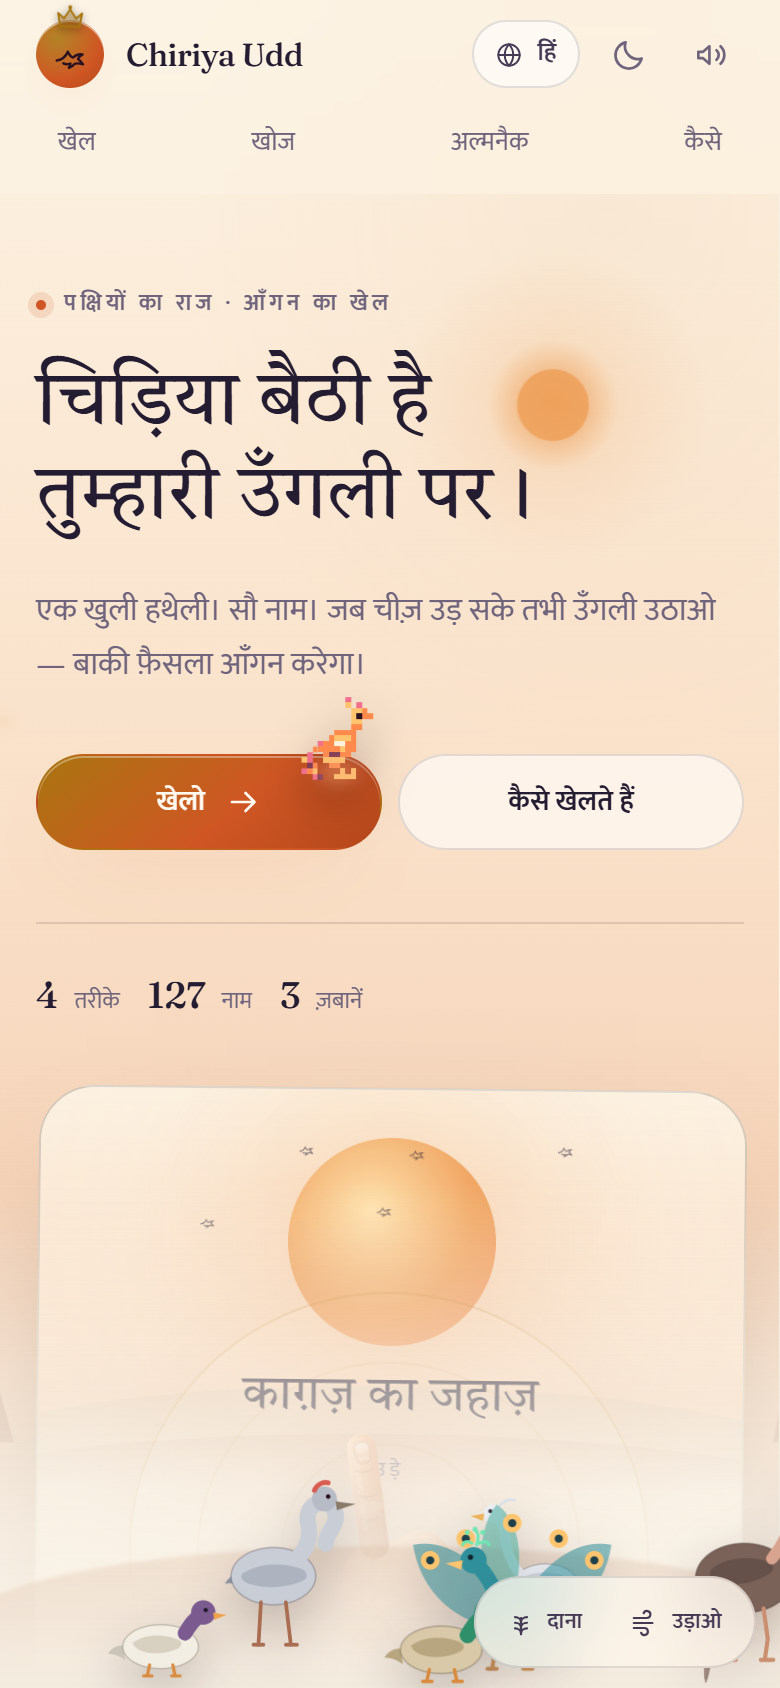
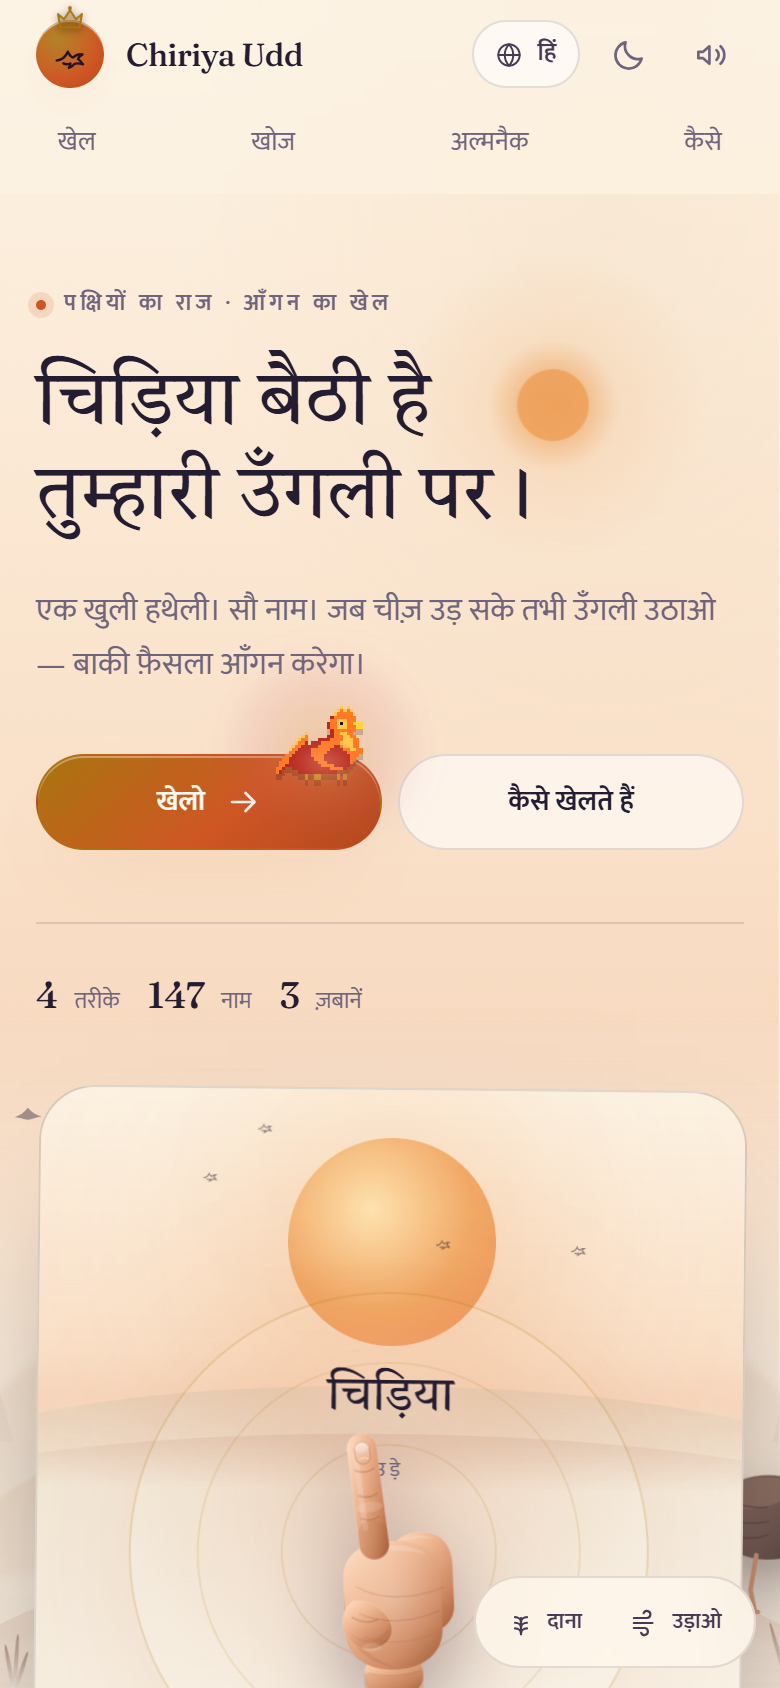
Bring the meadow forward and let the phoenix burn and rise

diff --git a/css/style.css b/css/style.css
@@ -1420,13 +1420,13 @@ body.is-playing .meadow-dock{opacity:0;pointer-events:none;transform:translate(-
 /* ---------- the phoenix above the Play button ---------- */
 .btn-primary.has-phoenix{position:relative;overflow:visible}
 .phoenix{
-  position:absolute;right:14px;top:-66px;width:96px;height:69px;image-rendering:pixelated;
+  position:absolute;right:0;top:-40px;width:68px;height:49px;image-rendering:pixelated;
   z-index:3;pointer-events:none;transform-origin:50% 100%;
   filter:drop-shadow(0 3px 0 rgba(0,0,0,.25));
   animation:phoenixBob 1.6s steps(1,end) infinite;
 }
-@media (max-width:480px){.phoenix{width:80px;height:58px;right:8px;top:-55px}}
-.phoenix svg{position:relative;z-index:2;display:block;width:100%;height:100%;overflow:visible}
+.phoenix svg{position:relative;z-index:2;display:block;width:100%;height:100%;overflow:visible;shape-rendering:crispEdges}
+.phoenix svg *{stroke:none;stroke-width:0}
 .phoenix-art{transform-box:fill-box;transform-origin:50% 92%}
 .phoenix-tail{transform-box:fill-box;transform-origin:74% 10%;animation:phoenixTail 3.6s ease-in-out infinite}
 .phoenix-head{transform-box:fill-box;transform-origin:44% 88%;transform:rotate(var(--phx-tilt,0deg));transition:transform .3s var(--ease)}
@@ -1665,9 +1665,13 @@ html[data-theme="light"] #view-play[data-mode="maya"]{--court-ink:#6a35b0}
 .cursor-birds{position:fixed;inset:0;z-index:400;pointer-events:none;overflow:hidden}
 .hum{
   position:fixed;left:0;top:0;width:26px;height:26px;
-  color:#0b0a12;pointer-events:none;
-  filter:drop-shadow(0 0 1.4px rgba(255,245,230,.55)) drop-shadow(0 3px 5px rgba(0,0,0,.35));
+  color:#f6f1e8;pointer-events:none;
+  filter:drop-shadow(0 0 1.4px rgba(10,8,16,.85)) drop-shadow(0 3px 5px rgba(0,0,0,.35));
   will-change:transform,opacity;
+}
+html[data-theme="light"] .hum{
+  color:#141018;
+  filter:drop-shadow(0 0 1.4px rgba(255,250,240,.85)) drop-shadow(0 3px 5px rgba(0,0,0,.22));
 }
 .hum svg{display:block;width:100%;height:100%;overflow:visible}
 .hum .hum-wing{transform-box:fill-box;transform-origin:72% 70%;animation:humWing .11s linear infinite alternate}
@@ -1686,11 +1690,14 @@ html[data-theme="light"] #view-play[data-mode="maya"]{--court-ink:#6a35b0}
 
 /* ---------- responsive / stillness ---------- */
 @media (max-width:780px){
-  .phoenix{width:72px;height:52px;top:-49px;right:6px}
+  .phoenix{width:56px;height:40px;top:-26px;right:3px}
   .mode-bird{width:108px;height:108px;right:-18px;bottom:-18px;opacity:.11}
   .play-bird{width:92px;opacity:.09}
   .pace-row{flex-direction:column;align-items:flex-start;gap:7px}
   .nav-bird{display:none}
+}
+@media (max-width:480px){
+  .phoenix{width:52px;height:37px;top:-22px;right:2px}
 }
 @media (prefers-reduced-motion:reduce){
   .phoenix,.phoenix-tail,.phoenix-wing,.phoenix-art,.phoenix-flame,.phoenix-aura,.phx-spark,.brand-crown,.mode-bird,.play-bird,.play-weather,.nav-bird,.hum,.hum .hum-wing{animation:none !important}

diff --git a/js/meadow.js b/js/meadow.js
@@ -247,13 +247,13 @@ const FAR_BIRD = `
 </svg>`;
 
 const TYPES = {
-  crane:     { nameKey: "birdCrane",   svg: CRANE,      h: 122, by: 3,  speed: 8,  z: 4, x: .16, depth: "mid" },
-  peacock:   { nameKey: "birdPeacock", svg: PEACOCK,    h: 104, by: 1,  speed: 6.5,z: 5, x: .56, depth: "mid" },
-  ostrich:   { nameKey: "birdOstrich", svg: OSTRICH,    h: 134, by: -2, speed: 7,  z: 7, x: .82, depth: "near" },
-  egret:     { nameKey: "birdEgret",   svg: EGRET,      h: 76,  by: 12, speed: 6,  z: 2, x: .64, depth: "far" },
-  duck:      { nameKey: "birdDuck",    svg: DUCK,       h: 58,  by: 1,  speed: 14, z: 8, x: .36, depth: "near" },
-  duckLight: { nameKey: "birdDuck",    svg: DUCK_LIGHT, h: 44,  by: 13, speed: 8,  z: 2, x: .10, depth: "far" },
-  sparrow:   { nameKey: "birdSparrow", svg: SPARROW,    h: 34,  by: 3,  speed: 22, z: 8, x: .27, depth: "near" },
+  crane:     { nameKey: "birdCrane",   svg: CRANE,      h: 122, by: 12, speed: 8,  z: 4, x: .16, depth: "mid" },
+  peacock:   { nameKey: "birdPeacock", svg: PEACOCK,    h: 104, by: 10, speed: 6.5,z: 5, x: .56, depth: "mid" },
+  ostrich:   { nameKey: "birdOstrich", svg: OSTRICH,    h: 134, by: 9,  speed: 7,  z: 7, x: .82, depth: "near" },
+  egret:     { nameKey: "birdEgret",   svg: EGRET,      h: 76,  by: 20, speed: 6,  z: 2, x: .64, depth: "far" },
+  duck:      { nameKey: "birdDuck",    svg: DUCK,       h: 58,  by: 10, speed: 14, z: 8, x: .36, depth: "near" },
+  duckLight: { nameKey: "birdDuck",    svg: DUCK_LIGHT, h: 44,  by: 21, speed: 8,  z: 2, x: .10, depth: "far" },
+  sparrow:   { nameKey: "birdSparrow", svg: SPARROW,    h: 34,  by: 11, speed: 22, z: 8, x: .27, depth: "near" },
 };
 
 const CAST = ["crane", "peacock", "ostrich", "egret", "duck", "duckLight", "sparrow"];

diff --git a/README.md b/README.md
@@ -64,9 +64,9 @@ Scores, bests, theme, language, pace, camera and volume all live in `localStorag
 
 The frame around the game is a small kingdom of birds, not a skin.
 
-- **A meadow on the home screen.** Sarus cranes, a peacock, an ostrich and ducks stroll the bottom of the courtyard. Click one to shoo it; **Feed** scatters grain and the flock wanders over to peck. **Shoo**, or a shake of your phone, sends every bird up in a flurry and they drift back a little later. Shake needs motion permission on iOS; the button is the desktop fallback.
-- **A pixel phoenix on the Play button.** It perches on the corner, turns its head toward your cursor, and flickers its tail. On a phone it simply sits and watches.
-- **Hummingbirds after the pointer.** On a fine pointer, small hummingbirds streak after the cursor and burst out of every click. Both are disabled in play and under `prefers-reduced-motion`.
+- **A meadow in the background.** Seven birds across three depths — sarus cranes, a peacock, an ostrich, egrets, ducks and a sparrow — live behind the page, softened by distance, layered hills, swaying grass, drifting mist and rising motes. They stroll, feed and peck, and every so often one takes a short flight across the courtyard. **Feed** scatters grain and the flock wanders over to peck. **Shoo**, or a shake of your phone, sends every bird up in a flurry and they drift back a little later. Shake needs motion permission on iOS; the button is the desktop fallback.
+- **A phoenix on the Play button.** It perches on the corner, turns its head toward your cursor and flickers its tail. Every so often it catches fire, collapses into a small heap of ash and embers, then rises again out of it — the old story, played on a loop.
+- **Hummingbirds after the pointer.** On a fine pointer, small hummingbirds streak after the cursor and burst out of every click. They are strictly monochrome: black in daylight, pale at night. Both are disabled in play and under `prefers-reduced-motion`.
 - **Birds in the chrome.** The brand carries a crown, every navbar link has its own bird, and each mode card and court carries its bird: crane, falcon, penguin, peacock.
 
 ## Screenshots
@@ -134,8 +134,8 @@ js/
   play.js                game state machine, pace, camera, NPC fingers, Maya decoys
   hand.js                index-finger SVG hand + NPC finger art
   vision.js              flat-shaded 3D models and canvas renderer
-  meadow.js              home birds, feeding, shooing, shake-to-scatter
-  cursor.js              hummingbird trail, click burst, pixel phoenix, nav fly-by
+  meadow.js              layered home meadow, depth, drifting scenery, flight, feeding
+  cursor.js              monochrome hummingbird trail, click burst, phoenix cycle, nav fly-by
   main.js                routing, themes, languages, audio console, explore demos, almanac
   store.js               localStorage settings + best scores
 assets/                  favicon, app icons, social card
